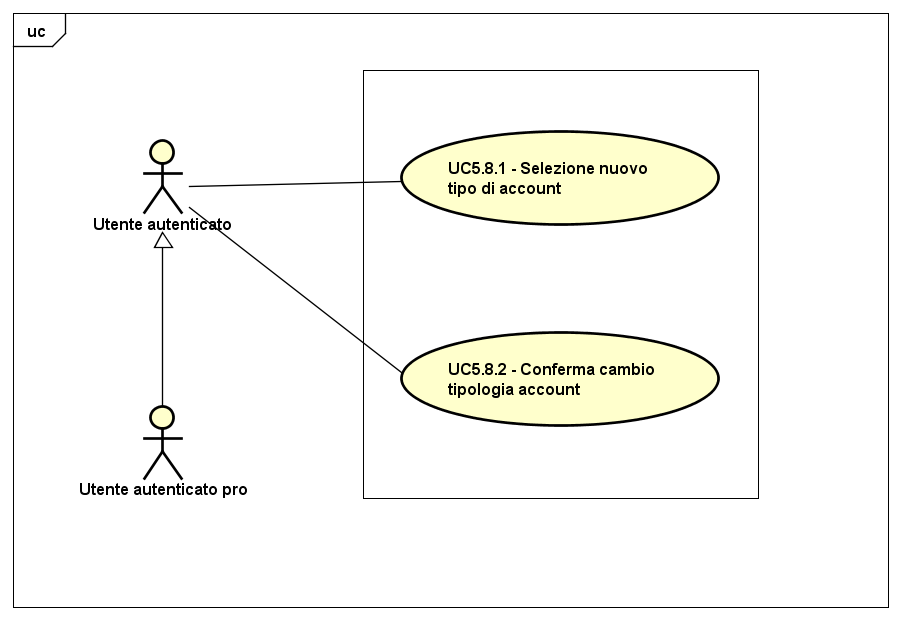
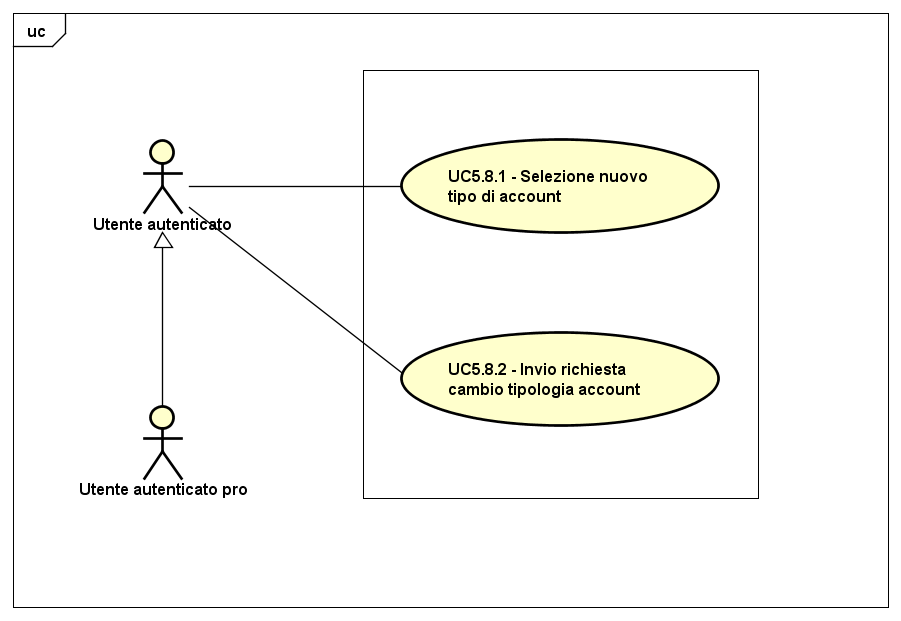
Modifiche UC5

Changed region(s): [[0.2175, 0.1836, 0.808, 0.3977], [0.4972, 0.5813, 0.7458, 0.6425]]

diff --git a/RR/AnalisiDeiRequisiti/sezioni/CasiD'uso/CasoD'usoUC5.tex b/RR/AnalisiDeiRequisiti/sezioni/CasiD'uso/CasoD'usoUC5.tex
@@ -223,7 +223,7 @@
 \begin{figure}[h]
 	\centering
 	\includegraphics[scale=0.5,keepaspectratio]{UML/UC5_8.png}
-	\caption{UC5.8: Cambio tipologia account}
+	\caption{UC5.8: Richiesta cambio tipologia account}
 \end{figure}
 
 \begin{itemize}
@@ -233,8 +233,8 @@
 	\item \textbf{Postcondizione}: il sistema invia la richiesta del cambio tipologia account;
 	\item \textbf{Scenario principale}:
 	\begin{enumerate}
-		\item L'attore può selezionare il nuovo tipo di account a cui passare (UC5.8.1)
-		\item L'attore può confermare il cambio di tipologia del proprio account (UC5.8.2).
+		\item L'attore può selezionare il nuovo tipo di account a cui passare (UC5.8.1);
+		\item L'attore può confermare l'invio della richiesta del cambio della tipologia del proprio account (UC5.8.2).
 	\end{enumerate}
 	\item \textbf{Scenari alternativi}: l'attore annulla le modifiche e il sistema lo riporta alla schermata di gestione del profilo utente.
 \end{itemize}
@@ -249,14 +249,14 @@
 	\item \textbf{Scenario principale}: l'attore seleziona una tipologia di account a cui passare.
 \end{itemize}
 
-\subsubsection{Caso d'uso UC5.8.2: Conferma cambio tipologia account}
+\subsubsection{Caso d'uso UC5.8.2: Invio richiesta cambio tipologia account}
 
 \begin{itemize}
 	\item \textbf{Attori}: utente autenticato, utente autenticato pro;
-	\item \textbf{Descrizione}: l'attore può confermare la tipologia di account a cui passare;
+	\item \textbf{Descrizione}: l'attore può inviare la richiesta di passaggio alla nuova tipologia di account;
 	\item \textbf{Precondizione}: l'attore ha selezionato la nuova tipologia di account;
 	\item \textbf{Postcondizione}: il sistema invia la richiesta del cambio tipologia account;
-	\item \textbf{Scenario principale}: l'attore conferma la nuova tipologia di account a cui passare.
+	\item \textbf{Scenario principale}: l'attore invia la richiesta di cambio tipologia account.
 \end{itemize}
 
 \subsubsection{Caso d'uso UC5.9: Eliminazione account}

diff --git a/RR/AnalisiDeiRequisiti/sezioni/diario.tex b/RR/AnalisiDeiRequisiti/sezioni/diario.tex
@@ -1,5 +1,10 @@
 \newcommand{\modificheuno} 
 {
+	1.0.3 & Modifiche effettuate a UC5: eliminata la possibilità di modificare l'username; eliminati i casi d'uso di conferma
+			a ogni modifica di un campo dati; nuovo caso d'uso UC5.6 per confermare le modifiche ai campi dati; nuovo caso d'uso
+			UC5.7 per la visualizzazione dell'errore nella conferma alle modifiche dei campi dati; modificato UC5.8: da "Cambio
+			tipologia account" in "Richiesta cambio tipologia account"   & \specialcell[t]{\SM \\ \Ana} & 2016-02-19
+	\\\midrule
 	1.0.2 & Correzione UML UC11.5, sostituita inclusione con estensione  & \specialcell[t]{\AF \\ \Amm} & 2016-02-19
 	\\\midrule
 	1.0.1 & Corretto errore "l'utente può seleziona" in UC11.5 a p.98  & \specialcell[t]{\AF \\ \Amm} & 2016-02-19
